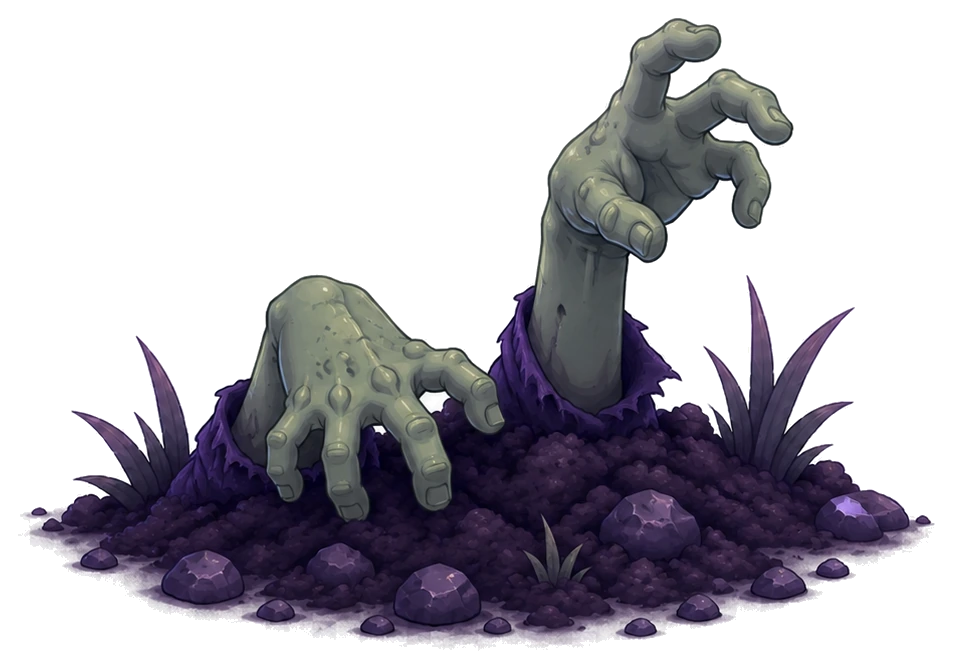
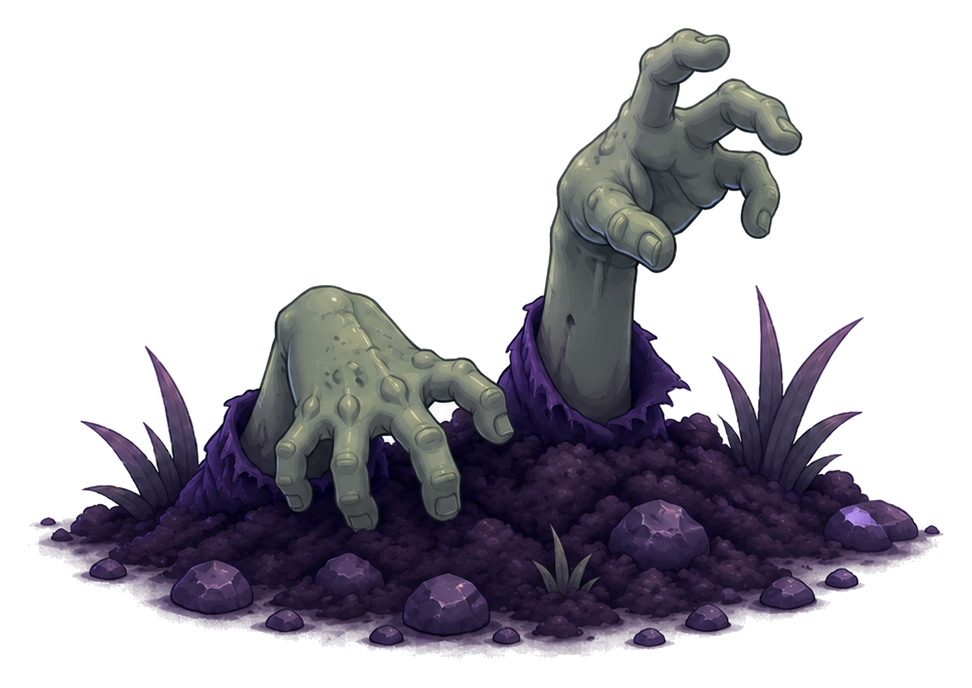
Center alive zombie hands on mobile

diff --git a/src/components/GraveyardScene.tsx b/src/components/GraveyardScene.tsx
@@ -92,7 +92,7 @@ function formatMoney(value: number) {
 }
 
 function toneFromAthChange(athChange: number): "red" | "amber" | "green" {
-  if (athChange >= -0.05) return "green";
+  if (athChange > -15) return "green";
   const abs = Math.abs(athChange);
   if (abs >= 50) return "red";
   return "amber";
@@ -117,16 +117,14 @@ function athValueLabel(report: SceneReport) {
 }
 
 function canWakeZombie(report: SceneReport) {
-  return report.athChange >= -0.05 && report.recoveryNeeded === 0;
+  return toneFromAthChange(report.athChange) === "green";
 }
 
 export function GraveyardScene() {
   const [selected, setSelected] = useState<SceneReport | null>(null);
   const [loading, setLoading] = useState(false);
   const [ticker, setTicker] = useState<string | null>(null);
-  const [awakenedZombieSymbol, setAwakenedZombieSymbol] = useState<string | null>(null);
   const requestId = useRef(0);
-  const zombieAwake = Boolean(selected && awakenedZombieSymbol === selected.symbol);
 
   const loadTicker = useCallback((symbol: string, scrollToTop = false) => {
     if (scrollToTop) {
@@ -205,29 +203,14 @@ export function GraveyardScene() {
           {graves.map((grave) => (
             <article key={grave.symbol} className={`asset-grave ${grave.tone ? `grave-tone-${grave.tone}` : ""} absolute z-20 ${grave.className}`}>
               {grave.report && canWakeZombie(grave.report) && (
-                <div className={`zombie-wake ${zombieAwake ? "is-awake" : ""}`} aria-hidden={false}>
+                <div className="zombie-wake" aria-hidden="true">
                   <img
-                    src="/graveyard-assets/optimized/zombie.webp"
+                    src="/graveyard-assets/optimized/zombie-hands.webp"
                     alt=""
-                    loading="lazy"
+                    loading="eager"
                     decoding="async"
-                    className="zombie-body"
+                    className="zombie-hands"
                   />
-                  <button
-                    type="button"
-                    aria-label={zombieAwake ? "Hide the alive zombie" : "Wake the alive zombie"}
-                    aria-pressed={zombieAwake}
-                    onClick={() => setAwakenedZombieSymbol((value) => value === grave.symbol ? null : grave.symbol)}
-                    className="zombie-hands-trigger"
-                  >
-                    <img
-                      src="/graveyard-assets/optimized/zombie-hands.webp"
-                      alt=""
-                      loading="eager"
-                      decoding="async"
-                      className="zombie-hands"
-                    />
-                  </button>
                 </div>
               )}
               <img src={`/graveyard-assets/optimized/${grave.asset}`} alt="" loading={grave.symbol === "HOOD" || grave.symbol === "RIVN" || grave.symbol === "PLTR" ? "lazy" : "eager"} decoding="async" className="absolute inset-0 h-full w-full object-contain drop-shadow-[0_18px_14px_rgba(0,0,0,0.55)]" />
@@ -239,7 +222,7 @@ export function GraveyardScene() {
               </div>
             </article>
           ))}
-          <div className="hand absolute bottom-[15%] right-[5%] z-10 h-28 w-24 sm:h-40 sm:w-32" />
+          {!selected && <div className="hand absolute bottom-[15%] right-[5%] z-10 h-28 w-24 sm:h-40 sm:w-32" />}
         </div>
 
         {selected && (

diff --git a/src/app/globals.css b/src/app/globals.css
@@ -182,7 +182,6 @@ body {
   z-index: 4;
   pointer-events: none;
 }
-.zombie-body,
 .zombie-hands {
   position: absolute;
   display: block;
@@ -190,69 +189,22 @@ body {
   user-select: none;
   -webkit-user-drag: none;
 }
-.zombie-body {
-  left: 74%;
-  bottom: -5%;
-  z-index: 3;
-  width: 118%;
-  opacity: 0;
-  transform: translate3d(-14%, 18%, 0) scale(.72) rotate(2deg);
-  transform-origin: bottom center;
-  filter: drop-shadow(0 22px 16px rgba(0,0,0,.42)) drop-shadow(0 0 18px rgba(139,92,246,.18));
-  transition: opacity .28s ease, transform .34s cubic-bezier(.2,.8,.2,1);
-}
-.zombie-hands-trigger {
-  position: absolute;
-  left: -13%;
-  right: -15%;
-  bottom: -7%;
-  z-index: 5;
-  height: 54%;
-  border: 0;
-  background: transparent;
-  padding: 0;
-  cursor: pointer;
-  pointer-events: auto;
-  -webkit-tap-highlight-color: transparent;
-}
 .zombie-hands {
   left: 0;
-  bottom: 0;
-  width: 100%;
+  bottom: -18%;
+  z-index: 5;
+  width: 96%;
   filter: drop-shadow(0 14px 10px rgba(0,0,0,.28));
-  transition: transform .22s ease, filter .22s ease;
-}
-.zombie-hands-trigger:focus-visible {
-  outline: 2px solid rgba(110,231,183,.78);
-  outline-offset: 3px;
-  border-radius: 999px;
-}
-.zombie-wake:hover .zombie-body,
-.zombie-wake:focus-within .zombie-body,
-.zombie-wake.is-awake .zombie-body {
-  opacity: 1;
-  transform: translate3d(0, 0, 0) scale(.88) rotate(0deg);
-}
-.zombie-wake:hover .zombie-hands,
-.zombie-wake:focus-within .zombie-hands,
-.zombie-wake.is-awake .zombie-hands {
-  transform: translateY(-3%) scale(1.03);
-  filter: drop-shadow(0 16px 12px rgba(0,0,0,.34)) drop-shadow(0 0 14px rgba(110,231,183,.15));
+  transform: rotate(-1deg);
 }
 
 @media (max-width: 640px) {
   .grave-selected { top: 27% !important; width: 54% !important; max-width: none !important; }
   .grave-selected .grave-copy { inset-inline: 22%; top: 27%; }
-  .zombie-body {
-    left: 66%;
-    bottom: -7%;
-    width: 126%;
-  }
-  .zombie-hands-trigger {
-    left: -18%;
-    right: -18%;
-    bottom: -8%;
-    height: 52%;
+  .zombie-hands {
+    left: 4%;
+    bottom: -19%;
+    width: 88%;
   }
 }
 
@@ -1260,5 +1212,31 @@ input,
   .summon-cta:not(.summon-cta-selected) {
     bottom: max(2rem, calc(env(safe-area-inset-bottom) + 1rem)) !important;
     height: 3.15rem !important;
+  }
+}
+
+/* Selected mobile grave must not inherit the default grid nth-child positions. */
+@media (max-width: 640px) {
+  .cemetery-scene .asset-grave.grave-selected,
+  .cemetery-scene .asset-grave.grave-selected:nth-child(1) {
+    --tw-translate-x: -50% !important;
+    --tw-translate-y: 0 !important;
+    left: 50% !important;
+    right: auto !important;
+    top: 21.5% !important;
+    bottom: auto !important;
+    width: 42% !important;
+    max-width: none !important;
+    translate: -50% 0 !important;
+    transform: none !important;
+  }
+
+  .cemetery-scene .asset-grave.grave-selected .zombie-hands {
+    --tw-translate-x: -50% !important;
+    --tw-translate-y: 0 !important;
+    left: 50% !important;
+    bottom: -18% !important;
+    width: 94% !important;
+    translate: -50% 0 !important;
   }
 }
